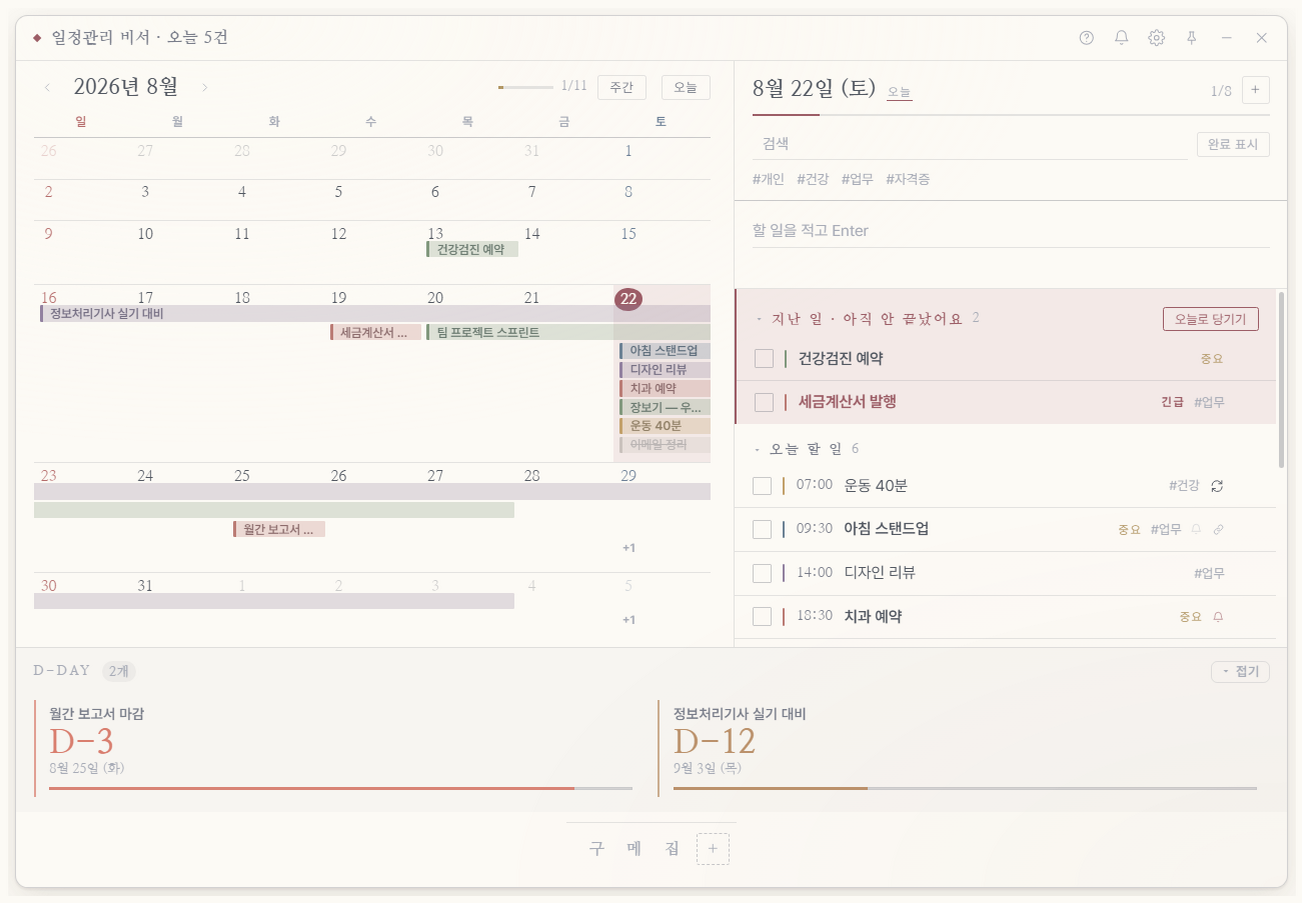
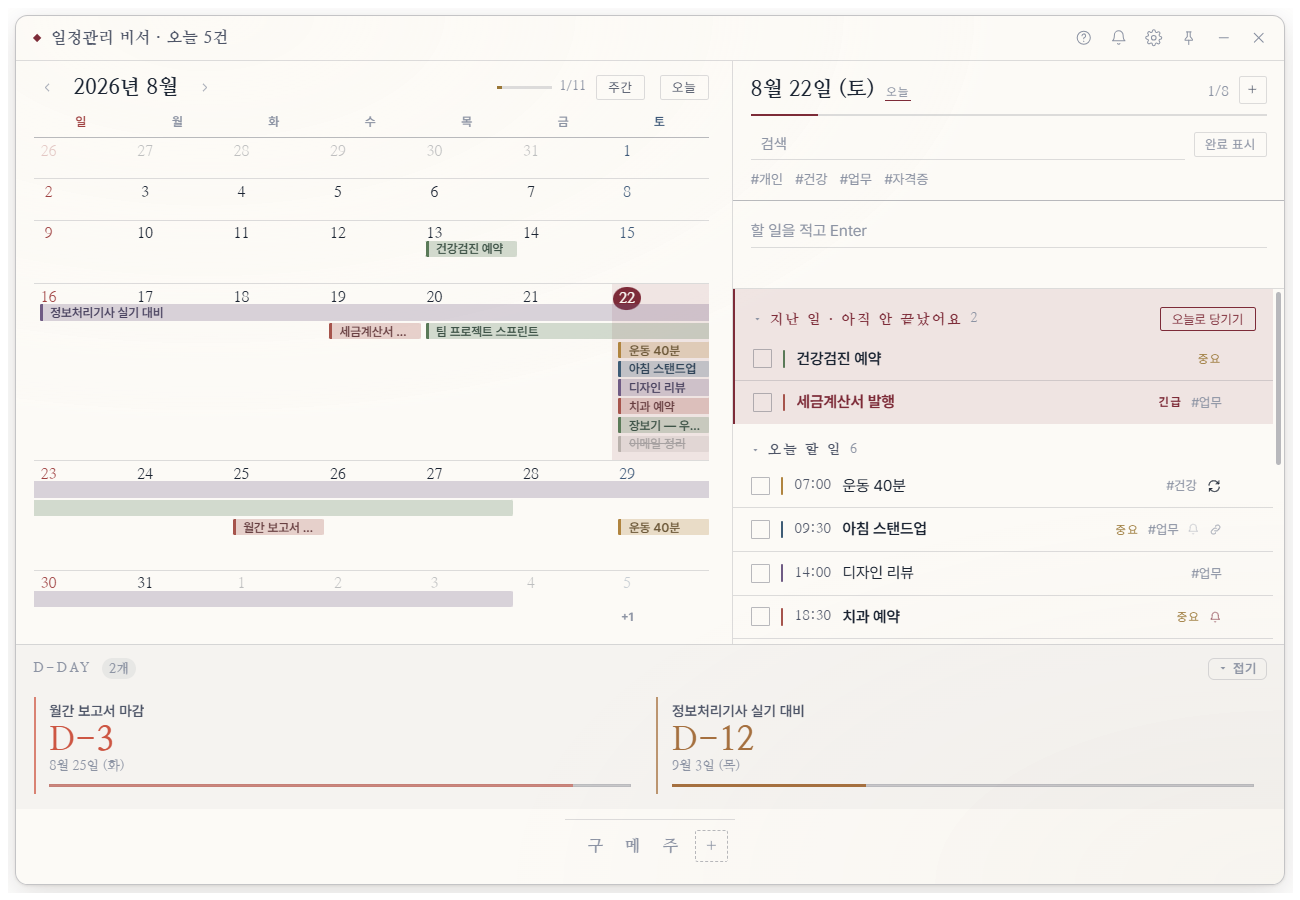
스크린샷을 저장소 도구로 재현 가능하게
저장소에 이미 tools/capture.js 라는 캡처 도구가 있었는데(화면 밖에 띄워 찍고,
사용자 데이터를 건드리지 않고, --exec 로 상태까지 연출한다) 못 보고 따로 하네스를
만들었다. 기존 도구를 쓰도록 되돌린다.

tools/capture-preload.js
- 샘플에 시각(startTime/endTime)과 밀린 일 두 건을 넣었다. 시각 있는 항목이
  시간순으로 서는 것과 '지난 일' 섹션이 캡처에 잡히게 된다.
- 첫 실행 안내와 아침 브리핑은 기본으로 꺼 둔다(seenWelcome/lastBriefDate).
  다른 컷을 통째로 덮기 때문이다. 그 화면만 찍고 싶으면 --set 으로 되돌린다.
- 새로 생긴 IPC 표면(app.getVersion / app.onFlushRequest / tray.setSummary)을 stub 으로
  채웠다. 렌더러가 옵셔널 체이닝으로 부르고 있어 없어도 죽지는 않지만,
  캡처 환경이 실제 앱과 다른 모양이면 나중에 헷갈린다.

tools/screens.js  (npm run screens)
- README 다섯 장을 한 번에 굽는다. 빈 이미지(합성 실패)면 실패로 처리한다 —
  capture.js 가 화면 밖 창의 스로틀링 때문에 간헐적으로 0x0 을 주기 때문이다.
- 브리핑은 내용이 짧아 큰 창에서 아래가 휑해서 그 컷만 창을 줄여 찍는다.

tools/shots/{compose,detail}.js
- --exec 로 넘기는 상태 연출 스크립트. 추가 폼에 시각을 채우고 요약 줄을 화면에
  들이거나, 항목 상세를 펼친다.

화면이 바뀌면 npm run screens 만 다시 돌리면 된다. 손으로 찍는 것과 달리 재현된다.

diff --git a/tools/capture-preload.js b/tools/capture-preload.js
@@ -14,7 +14,9 @@ const t = (o) => ({ notes: '', tags: [], priority: 0, color: 'blue', done: false
 
 const SAMPLE = {
   version: 1,
-  settings: {},
+  // 첫 실행 안내와 아침 브리핑은 다른 컷을 덮으므로 기본은 꺼 둔다.
+  // 그 화면을 찍고 싶으면 --set '{"seenWelcome":false}' / '{"lastBriefDate":""}' 로 되돌린다.
+  settings: { seenWelcome: true, lastBriefDate: day(0) },
   launcher: [
     { id: 'l_cal', label: '구글 캘린더', icon: '', kind: 'url', target: 'https://calendar.google.com', order: 0 },
     { id: 'l_mail', label: '메일', icon: '', kind: 'url', target: 'https://mail.google.com', order: 1 },
@@ -30,14 +32,20 @@ const SAMPLE = {
     t({ id: 's3', title: '여름 휴가', notes: '강릉', start: day(16), end: day(20), color: 'amber', tags: ['개인'], order: 2 }),
     t({ id: 's4', title: '월간 보고서 마감', start: day(3), end: day(3), color: 'rose', priority: 2, tags: ['업무'], pinned: true, remind: '1@18:00', order: 3 }),
 
-    t({ id: 't1', title: '아침 스탠드업 회의', start: day(0), end: day(0), color: 'blue', priority: 1, tags: ['업무'], link: 'https://meet.google.com/abc-defg', remind: '0@09:00', remindedAt: Date.now() - 42 * 60000, order: 4 }),
-    t({ id: 't2', title: '장보기 — 우유, 계란, 커피', start: day(0), end: day(0), color: 'green', tags: ['개인'], order: 5 }),
-    t({ id: 't3', title: '이메일 정리', start: day(0), end: day(0), done: true, doneAt: Date.now(), color: 'slate', order: 6 }),
-    t({ id: 't4', title: '운동 40분', start: day(0), end: day(0), color: 'amber', tags: ['건강'], order: 7 }),
-    t({ id: 't5', title: '치과 예약 확인', start: day(1), end: day(1), color: 'rose', priority: 1, order: 8 }),
+    // 오늘 — 시각이 있는 것은 목록 위쪽에 시간순으로 선다
+    t({ id: 't0', title: '운동 40분', start: day(0), end: day(0), startTime: '07:00', color: 'amber', tags: ['건강'], repeat: { freq: 'weekly', interval: 1, until: null }, order: 4 }),
+    t({ id: 't1', title: '아침 스탠드업', notes: '지난주 액션 아이템 확인', start: day(0), end: day(0), startTime: '09:30', endTime: '10:00', color: 'blue', priority: 1, tags: ['업무'], link: 'https://meet.google.com/abc-defg', remind: '-10m', order: 5 }),
+    t({ id: 't2', title: '디자인 리뷰', start: day(0), end: day(0), startTime: '14:00', color: 'violet', tags: ['업무'], order: 6 }),
+    t({ id: 't3', title: '치과 예약', start: day(0), end: day(0), startTime: '18:30', color: 'rose', priority: 1, remind: '-60m', order: 7 }),
+    t({ id: 't4', title: '장보기 — 우유, 계란', start: day(0), end: day(0), color: 'green', tags: ['개인'], order: 8 }),
+    t({ id: 't5', title: '이메일 정리', start: day(0), end: day(0), done: true, doneAt: Date.now(), color: 'slate', order: 9 }),
 
-    t({ id: 'i1', title: '책상 정리하기', start: null, end: null, color: 'slate', order: 9 }),
-    t({ id: 'i2', title: '포트폴리오 사이트 리뉴얼', start: null, end: null, color: 'violet', priority: 1, tags: ['개인'], order: 10 }),
+    // 기한이 지났는데 안 끝난 일 — '지난 일' 섹션과 아침 브리핑에 잡힌다
+    t({ id: 'o1', title: '세금계산서 발행', start: day(-3), end: day(-3), color: 'rose', priority: 2, tags: ['업무'], order: 10 }),
+    t({ id: 'o2', title: '건강검진 예약', start: day(-9), end: day(-9), color: 'green', priority: 1, order: 11 }),
+
+    t({ id: 'i1', title: '책상 정리하기', start: null, end: null, color: 'slate', order: 12 }),
+    t({ id: 'i2', title: '포트폴리오 사이트 리뉴얼', start: null, end: null, color: 'violet', priority: 1, tags: ['개인'], order: 13 }),
   ],
 };
 
@@ -56,6 +64,7 @@ const noop = () => {};
 // 내보내기 내용을 검증할 수 있도록 별도 통로를 둔다.
 let lastSaveAs = null;
 let nextOpenFile = null;   // 다음 openFile 호출이 돌려줄 내용
+let lastTraySummary = null;
 
 contextBridge.exposeInMainWorld('api', {
   loadData: async () => JSON.parse(JSON.stringify(SAMPLE)),
@@ -80,9 +89,13 @@ contextBridge.exposeInMainWorld('api', {
     openBackups: async () => ({ ok: true, path: '' }),
   },
   app: {
+    getVersion: async () => ({ version: require('../package.json').version, packaged: true }),
     getAutoLaunch: async () => ({ ok: true, enabled: false, dev: true }),
     setAutoLaunch: async () => ({ ok: true, enabled: false }),
+    onFlushRequest: noop,
   },
+  // 캡처 창에는 트레이가 없다. 렌더러가 보고한 요약은 확인용으로만 담아 둔다.
+  tray: { setSummary: (s) => { lastTraySummary = s; } },
   openExternal: async () => ({ ok: true }),
   launcher: {
     run: async () => ({ ok: true }),
@@ -95,5 +108,6 @@ contextBridge.exposeInMainWorld('api', {
 
 contextBridge.exposeInMainWorld('captureProbe', {
   lastSaveAs: () => lastSaveAs,
+  lastTraySummary: () => lastTraySummary,
   setNextOpenFile: (text) => { nextOpenFile = text; },
 });

diff --git a/tools/screens.js b/tools/screens.js
@@ -1,0 +1,50 @@
+// README 스크린샷 다섯 장을 한 번에 다시 뽑는다.
+//
+//   npm run screens
+//
+// 실제 앱의 renderer 를 그대로 띄워 capturePage 로 굽는다(tools/capture.js).
+// 화면이 바뀌면 이 명령만 다시 돌리면 되고, 손으로 찍은 것과 달리 결과가 재현된다.
+
+const { spawnSync } = require('child_process');
+const path = require('path');
+
+const ROOT = path.join(__dirname, '..');
+const OUT = path.join(ROOT, 'docs', 'screenshots');
+const ELECTRON = require('electron');
+
+// [파일명, 설명, 추가 인자]
+const SHOTS = [
+  ['01-main', '기본 화면', ['--w', '1040', '--h', '720']],
+  ['02-compose', '일정 추가 폼', ['--w', '1040', '--h', '720', '--exec', 'tools/shots/compose.js']],
+  ['03-detail', '항목 상세', ['--w', '1040', '--h', '720', '--exec', 'tools/shots/detail.js']],
+  // 브리핑은 내용이 짧아 큰 창에서는 아래가 휑하다. 흔히 쓰는 크기로 줄여 찍는다.
+  ['04-brief', '아침 브리핑', ['--w', '1040', '--h', '560', '--set', '{"lastBriefDate":""}']],
+  ['05-dark', '가죽(다크) 테마', ['--w', '1040', '--h', '720', '--theme', 'dark']],
+];
+
+let failed = 0;
+
+for (const [name, label, extra] of SHOTS) {
+  const out = path.join(OUT, `${name}.png`);
+  const res = spawnSync(ELECTRON, [
+    path.join('tools', 'capture.js'), '--out', out, '--delay', '1200', ...extra,
+  ], { cwd: ROOT, encoding: 'utf8' });
+
+  const line = (res.stdout || '').trim().split('\n').pop() || '';
+  let info = null;
+  try { info = JSON.parse(line); } catch { /* 파싱 실패는 아래에서 처리 */ }
+
+  if (res.status !== 0 || !info || info.blank) {
+    failed++;
+    console.error(`✗ ${name}  ${label} — ${info && info.blank ? '빈 이미지(합성 실패)' : '캡처 실패'}`);
+    if (res.stderr) console.error(res.stderr.trim().split('\n').slice(-3).join('\n'));
+  } else {
+    console.log(`✓ ${name}.png  ${info.width}x${info.height}  ${label}`);
+  }
+}
+
+if (failed) {
+  console.error(`\n${failed}장 실패`);
+  process.exit(1);
+}
+console.log('\n스크린샷 5장을 docs/screenshots/ 에 새로 구웠습니다.');

diff --git a/tools/shots/compose.js b/tools/shots/compose.js
@@ -1,0 +1,12 @@
+// 일정 추가 폼을 열고 시각까지 채운 상태. capture.js --exec 로 쓴다.
+(() => {
+  document.querySelector('.todo-add').click();
+  const rows = document.querySelectorAll('.cmp-when__row');
+  const fire = (el, v) => { el.value = v; el.dispatchEvent(new Event('change', { bubbles: true })); };
+  document.querySelector('.cmp-title').value = '분기 리뷰 미팅';
+  fire(rows[0].querySelector('.cmp-time'), '15:00');
+  fire(rows[1].querySelector('.cmp-time'), '16:30');
+  // 요약 줄('… · 15:00–16:30')이 화면에 들어오도록
+  document.querySelector('.cmp-when__summary').scrollIntoView({ block: 'center' });
+  return document.querySelector('.cmp-when__summary').textContent;
+})()

diff --git a/tools/shots/detail.js b/tools/shots/detail.js
@@ -1,0 +1,9 @@
+// 항목 상세를 펼친 상태 — 추가 폼과 같은 시작/종료 배치를 보여 준다.
+(() => {
+  const items = [...document.querySelectorAll('.todo-item')];
+  const t = items.find((li) => li.querySelector('.todo-title').textContent.includes('아침 스탠드업'));
+  if (!t) return '대상 없음';
+  t.querySelector('.todo-item__row').click();
+  t.scrollIntoView({ block: 'start' });
+  return t.querySelector('.todo-title').textContent;
+})()
